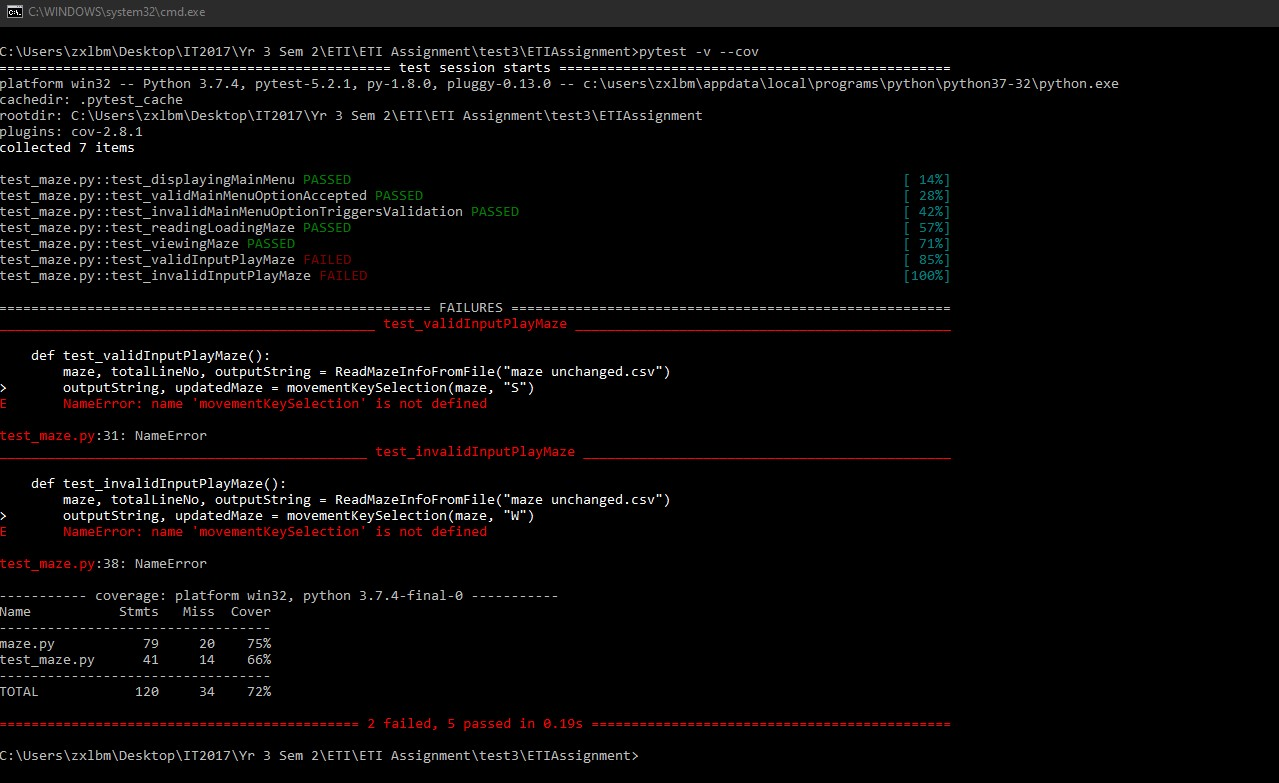
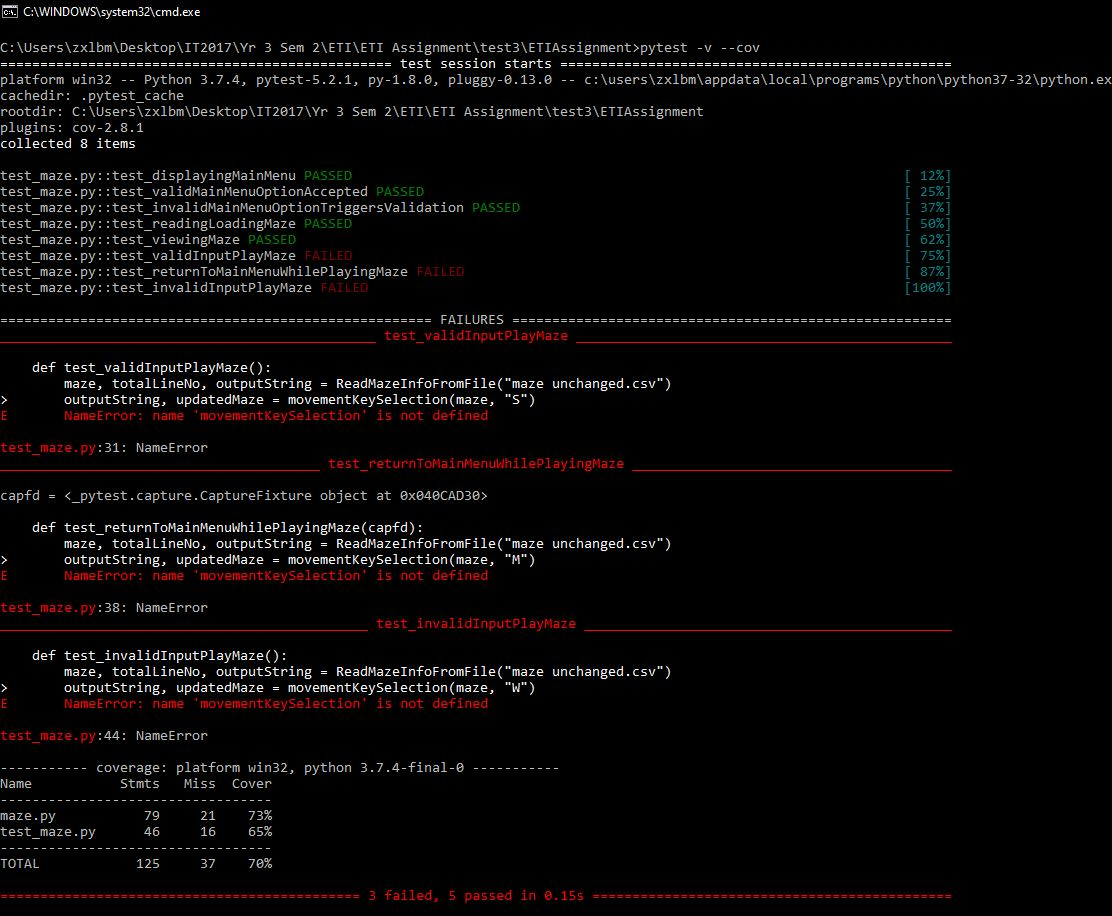
#2 Commited test scripts, test outputs and test case for 7.0

Changed region(s): [[0.0, 0.0, 1.0, 1.0], [0.3669, 0.8276, 0.4281, 0.8582]]

diff --git a/test_maze.py b/test_maze.py
@@ -33,6 +33,12 @@ def test_validInputPlayMaze():
     assert updatedMaze[2][6] == "A"
     assert updatedMaze[1][6] == "O"
 
+def test_returnToMainMenuWhilePlayingMaze(capfd):
+    maze, totalLineNo, outputString = ReadMazeInfoFromFile("maze unchanged.csv")
+    outputString, updatedMaze = movementKeySelection(maze, "M")
+    out, err = capfd.readouterr()
+    assert 'MAIN MENU' in out
+
 def test_invalidInputPlayMaze():
     maze, totalLineNo, outputString = ReadMazeInfoFromFile("maze unchanged.csv")
     outputString, updatedMaze = movementKeySelection(maze, "W")
